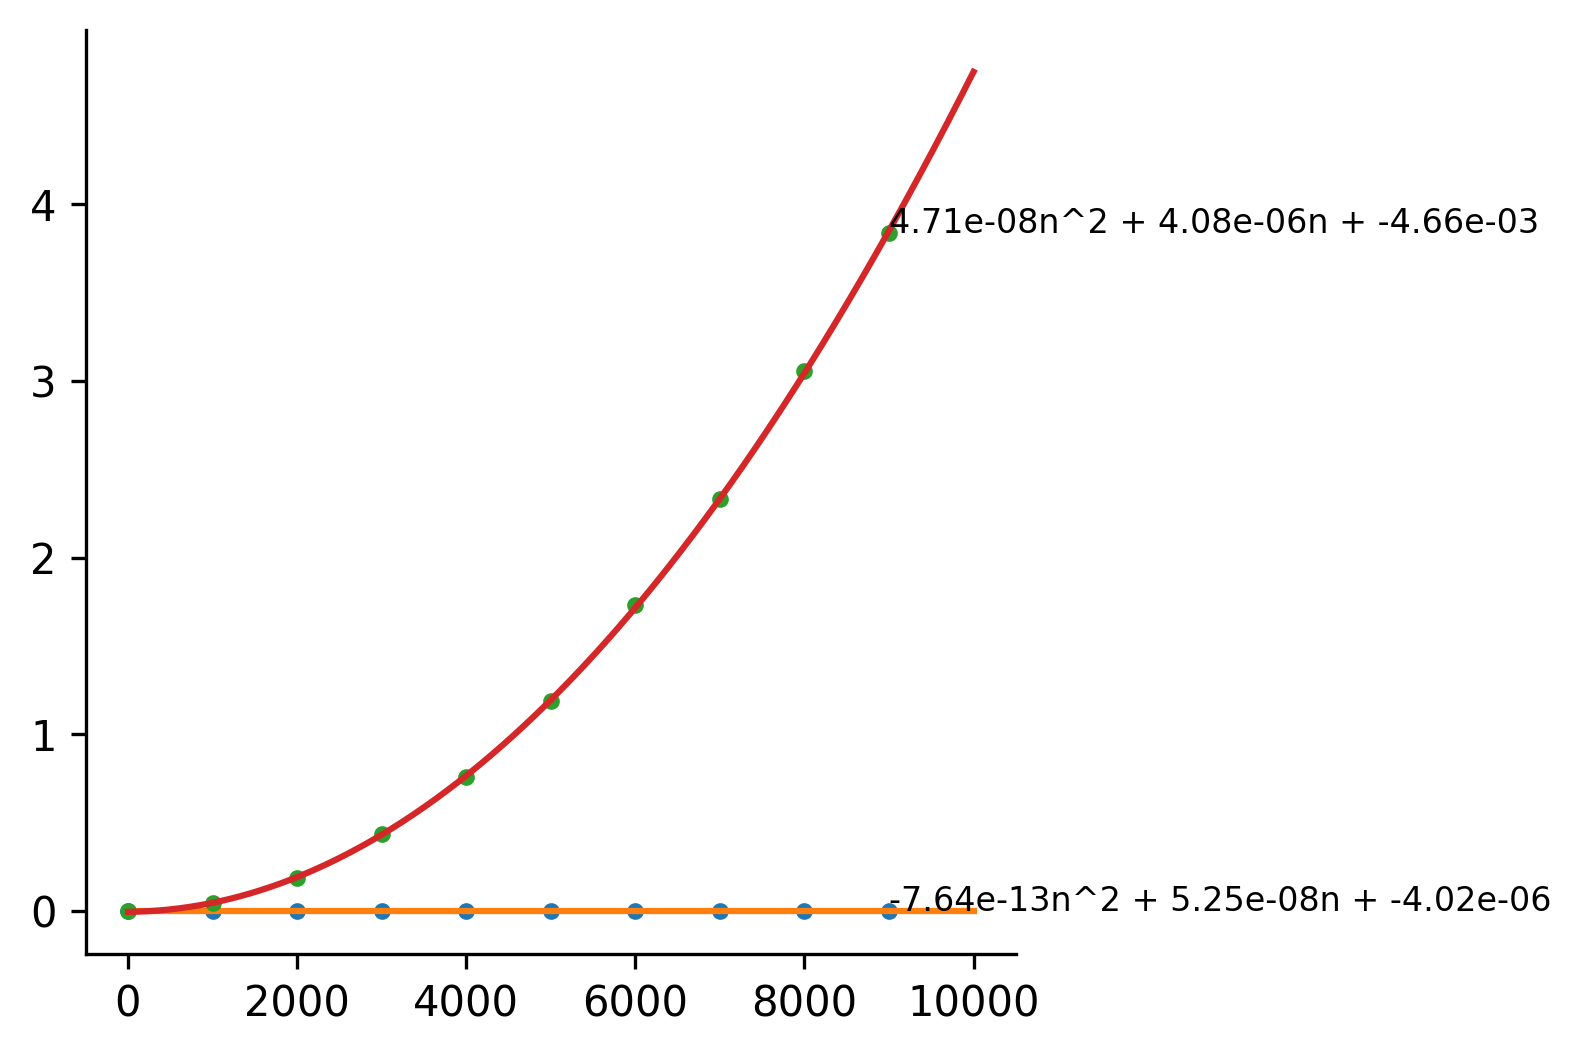
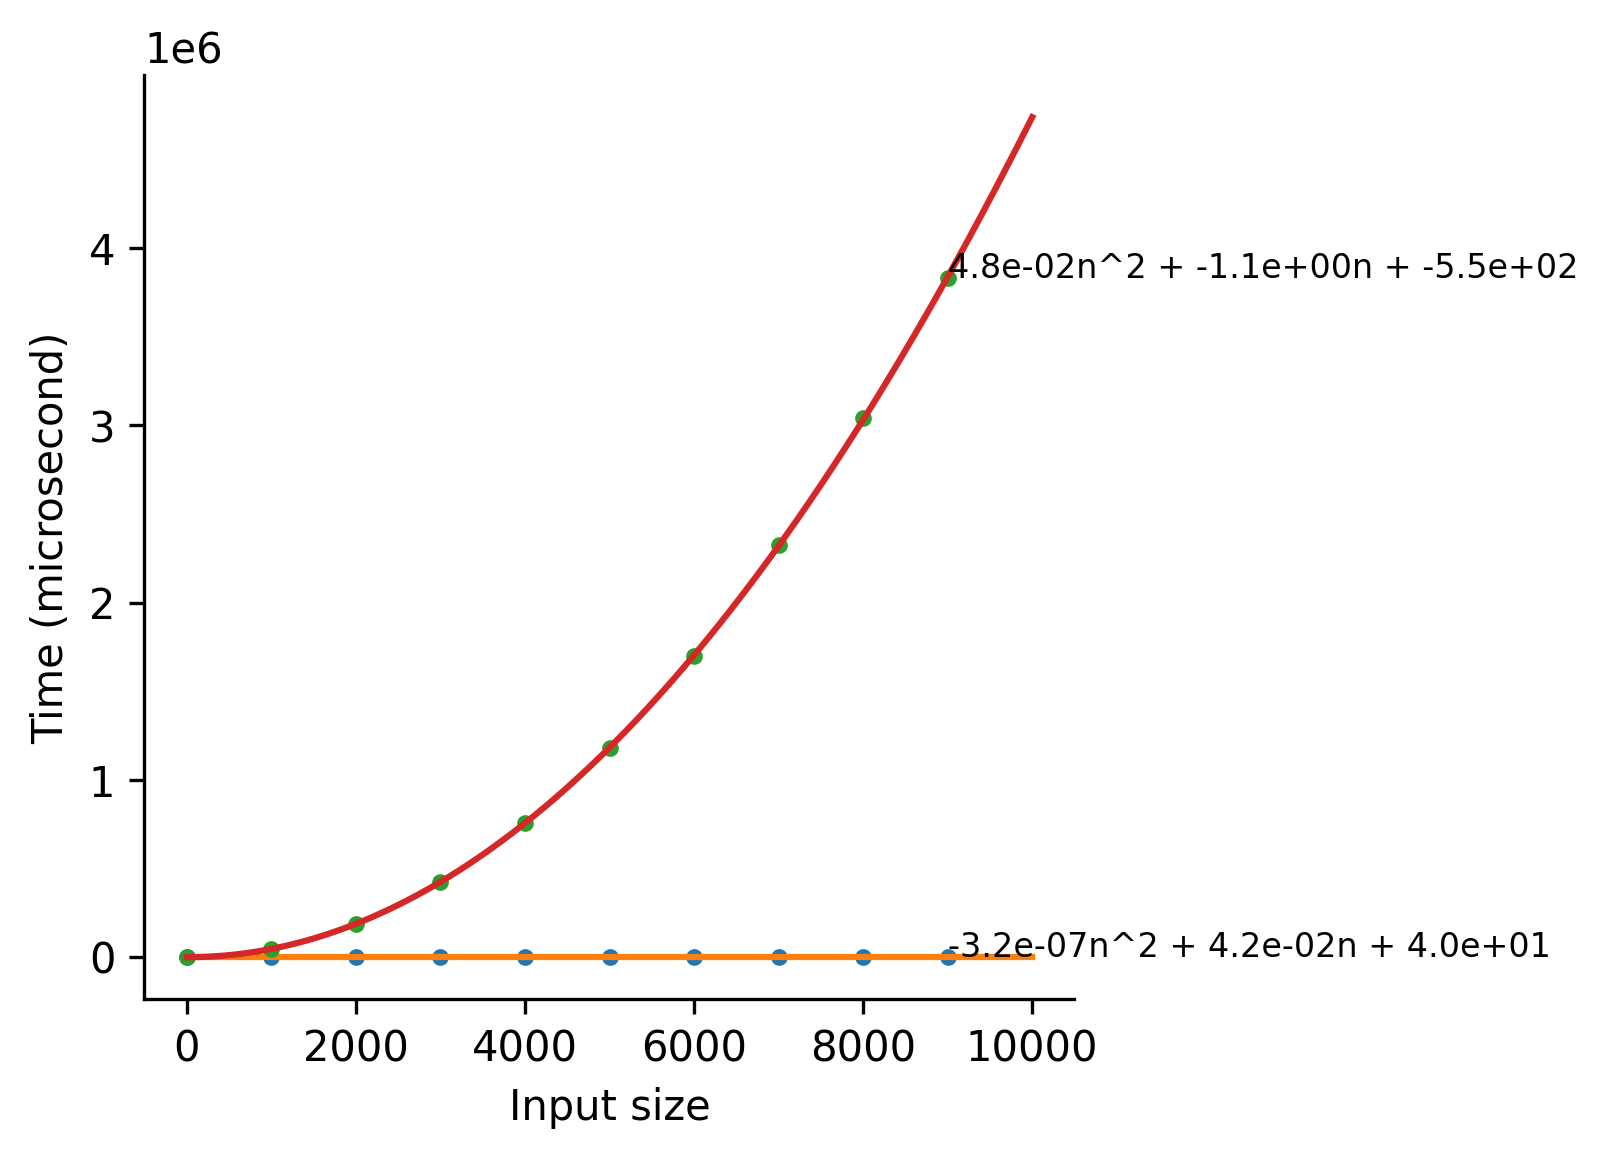
use micro seconds

diff --git a/asymptotic/run_time_as_function.py b/asymptotic/run_time_as_function.py
@@ -26,6 +26,9 @@ ax = fig.add_subplot(1,1,1)
 ax.spines['top'].set_visible(False)
 ax.spines['right'].set_visible(False)
 
+ax.set_xlabel('Input size')
+ax.set_ylabel('Time (microsecond)')
+
 for func in [linear, square]:
     X = []
     Y = []
@@ -35,7 +38,7 @@ for func in [linear, square]:
         end = time.time()
         X.append(n)
         print(n,end-start)
-        Y.append(end - start)
+        Y.append(1000000*(end - start)) #micro second
 
 
     ax.plot(X,Y,'.',lw=0)
@@ -47,9 +50,9 @@ for func in [linear, square]:
 
     ax.plot(xp,p(xp))
 
-    eq = '{:.2e}'.format(float(f[0])) + 'n^2 +'\
-         ' {:.2e}'.format(float(f[1])) + 'n +' \
-         ' {:.2e}'.format(float(f[2]))
+    eq = '{:.1e}'.format(float(f[0])) + 'n^2 +'\
+         ' {:.1e}'.format(float(f[1])) + 'n +' \
+         ' {:.1e}'.format(float(f[2]))
          
 
     ax.text(X[-1],Y[-1],eq, size=8)
